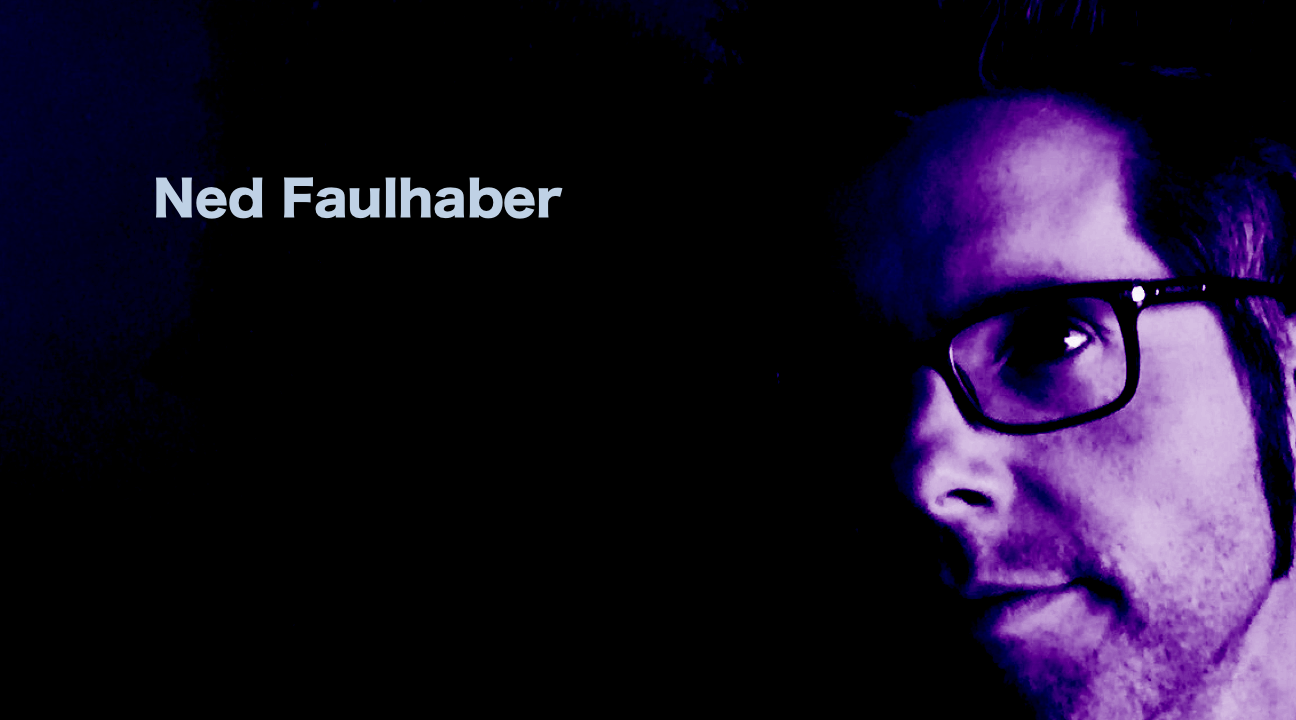
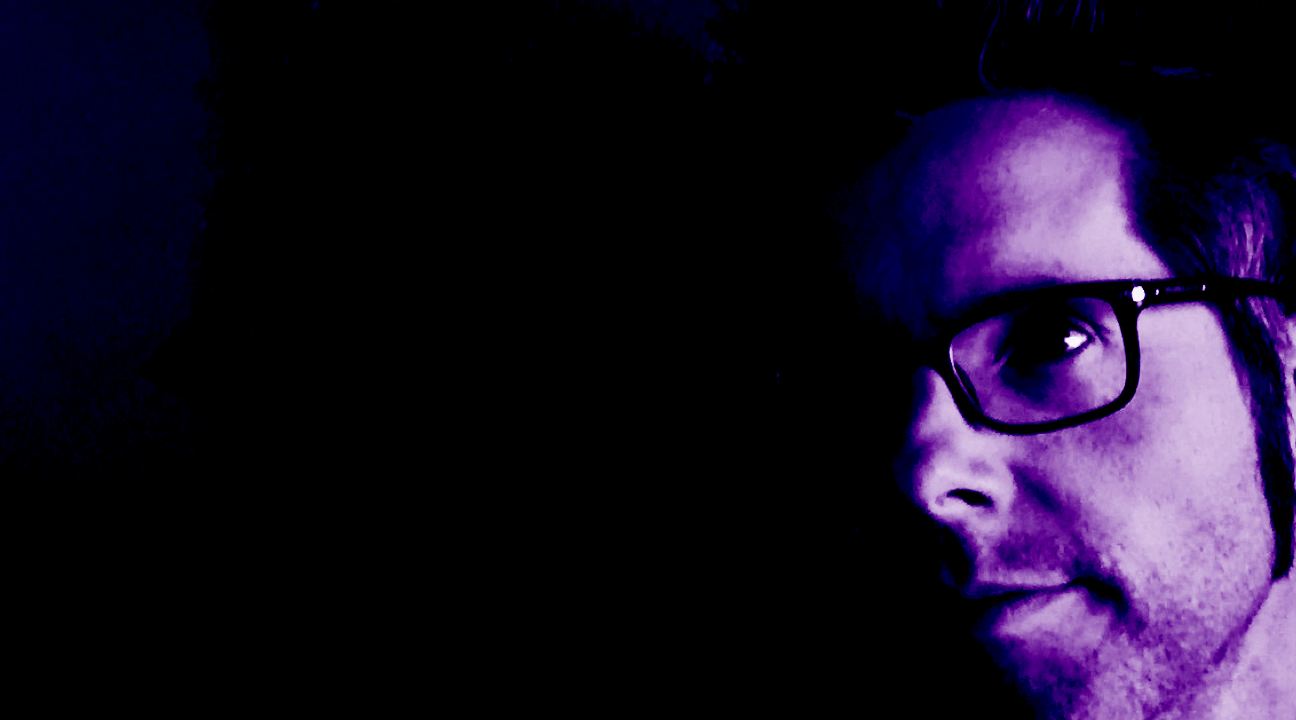
played with different ideas for sidebar and whether to make the image a background or not.  Found that the image doesn't work past 1440x720.

Changed region(s): [[0.1235, 0.2444, 0.4321, 0.3056]]

diff --git a/scss/pages/_home.scss b/scss/pages/_home.scss
@@ -1,23 +1,45 @@
 .hero {
   display: flex;
-  height: auto;
+  height: 720px;
+  // height: auto;
   width: 100vw;
-  justify-content: flex-start;
-  .sidebar {
-    display: flex;
-    height: auto;
-    width: 10%;
-    background-color: black;
+  // max-width: 1440px;
+  // justify-content: flex-start;
+  position: relative;
+  :before {
+    content: "";
+    position: absolute;
+    height: 100%;
+    width: 144px;
+    top: 0px;
+    left: 0px;
+    background-color: #2F195F;
+
   }
-  img {
+  // .sidebar {
+  //   display: flex;
+  //   height: auto;
+  //   width: 10%;
+  //   background-color: black;
+  // }
+  .hero-image {
     display: flex;
     height: 100%;
-    width: 90%;
+    width: 100%;
+    max-width: 1440px;
+    background-image: url('../img/hero1440.png');
+    background-position: center;
+    background-size: cover;
   }
+  // img {
+  //   display: flex;
+  //   height: 100%;
+  //   width: 90%;
+  // }
 }
 
 .empty {
   height: 50px;
   width: 100vw;
-  background-color: steelblue;
+  background-color: white;
 }

diff --git a/css/main.css b/css/main.css
@@ -1,22 +1,29 @@
 .hero {
   display: flex;
-  height: auto;
+  height: 720px;
   width: 100vw;
-  justify-content: flex-start; }
-  .hero .sidebar {
-    display: flex;
-    height: auto;
-    width: 10%;
-    background-color: black; }
-  .hero img {
+  position: relative; }
+  .hero :before {
+    content: "";
+    position: absolute;
+    height: 100%;
+    width: 144px;
+    top: 0px;
+    left: 0px;
+    background-color: #2F195F; }
+  .hero .hero-image {
     display: flex;
     height: 100%;
-    width: 90%; }
+    width: 100%;
+    max-width: 1440px;
+    background-image: url("../img/hero1440.png");
+    background-position: center;
+    background-size: cover; }
 
 .empty {
   height: 50px;
   width: 100vw;
-  background-color: steelblue; }
+  background-color: white; }
 
 /* http://meyerweb.com/eric/tools/css/reset/
    v2.0 | 20110126

diff --git a/index.html b/index.html
@@ -12,7 +12,10 @@
         <div class="sidebar">
 
         </div>
-        <img src="img/hero.png" alt="large image of Ned" />
+        <div class="hero-image">
+
+        </div>
+        <!-- <img src="img/hero.png" alt="large image of Ned" /> -->
       </div>
       <div class="empty">
 
